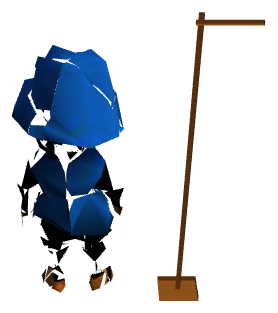
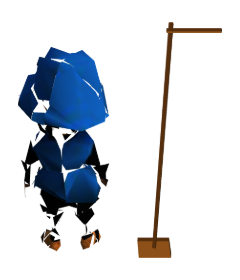
ガイド：兵の絵を共通の枠と縮尺にし、勝ち負けの画像を直前・直後の2枚に
兵の絵は 240×280 の枠で共通にし、カメラの距離と拡大率も全枚で同じにする。
各枚は不透明な画素の範囲の中心を枠の中心へ。一覧は同じ表示幅で並べる。
勝ち負けは、控えの近衛兵を選んで大将の逃げ場が無いと分かる局面（拡大表示）と、
投入した直後の結果カードの2枚にする。

Claude-Session: https://claude.ai/code/session_013nKbqTkPJMSRT9nEeyhNhc

diff --git a/guide.html b/guide.html
@@ -47,7 +47,7 @@
   /* 兵の絵。対局画面と同じモデルを俯角35度で撮ったもの（PNG は透明）。下地は対局画面の
      地面＝舞台絵 assets/stage/honjin.jpg の、陣幕より下の土の平均色。 */
   td.pic{width:1%;white-space:nowrap}
-  td.pic img{height:64px;width:auto;display:block;background:#aa884b;border-radius:6px}
+  td.pic img{width:60px;height:auto;display:block;background:#aa884b;border-radius:6px}
   /* 対局画面の写真。2枚並べるときは左が直前、右が直後。 */
   .shot{display:flex;gap:6px;margin:8px 0 4px}
   .shot img{width:calc(50% - 3px);height:auto;border-radius:4px;border:1px solid var(--line)}
@@ -116,8 +116,8 @@
 
     <h3 id="rule-kachi">勝ち負け</h3>
     <p class="lead">敵の大将を追い詰めたら勝ち。</p>
-    <div class="shot one"><img src="./assets/guide/rule-mate.jpg" alt=""></div>
-    <p class="cap">控えの近衛兵を投入して敵の大将を追い詰めたところ。結果カードが出る。</p>
+    <div class="shot"><img src="./assets/guide/rule-mate-before.jpg" alt=""><img src="./assets/guide/rule-mate-after.jpg" alt=""></div>
+    <p class="cap">左：控えの近衛兵を選ぶと置けるマスが光る。大将のすぐ前へ投入すると、敵の大将は自分の兵に囲まれてどこへも逃げられない（拡大して表示）。右：投入した直後。</p>
     <ul>
       <li>追い詰める＝敵軍がどう動いても大将を守れない状態</li>
       <li>敵軍に動ける兵がひとつもなくなったときも勝ち</li>
